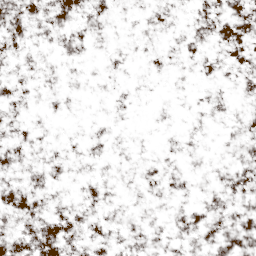
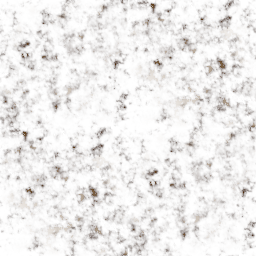
Improve player movement when going in negative z direction

diff --git a/gameObject.js b/gameObject.js
@@ -93,21 +93,18 @@ export class GameObject {
 const shapes = {
   square: new defs.Square(),
   trapezoidalPrism:
-    new (defs.Capped_Cylinder.prototype.make_flat_shaded_version())(10, 10, [
-      [0, 2],
-      [0, 2],
-    ]),
+    new defs.Capped_Cylinder(10, 10, Mat4.scale(3, 1, 1)),
   sphere: new defs.Subdivision_Sphere(8),
   triangle: new defs.Cone_Tip(10, 10),
   torus: new defs.Torus(16, 16),
   cube: new defs.Cube(),
   cone: new defs.Closed_Cone(10, 10),
-  cylinder: new defs.Rounded_Capped_Cylinder(20, 20)
+  cylinder: new defs.Rounded_Capped_Cylinder(10, 10)
 };
 
 for (let i = 0; i < shapes.square.arrays.texture_coord.length; i++) {
-  shapes.square.arrays.texture_coord[i][0] *= 15;
-  shapes.square.arrays.texture_coord[i][1] *= 15;
+  shapes.square.arrays.texture_coord[i][0] *= 50;
+  shapes.square.arrays.texture_coord[i][1] *= 50;
 }
 
 for (let i = 0; i < shapes.cone.arrays.texture_coord.length; i++) {
@@ -115,6 +112,10 @@ for (let i = 0; i < shapes.cone.arrays.texture_coord.length; i++) {
   shapes.cone.arrays.texture_coord[i][1] /= 10;
 }
 
+// for (let i = 0; i < shapes.trapezoidalPrism.arrays.texture_coord.length; i++) {
+//   shapes.trapezoidalPrism.arrays.texture_coord[i][0] /= 8;
+//   shapes.trapezoidalPrism.arrays.texture_coord[i][1] /= 8;
+// }
 
 const phong_material = new Material(new Shadow_Textured_Phong_Shader(1));
 const rockTexture = new Material(new Shadow_Textured_Phong_Shader(1), {
@@ -122,8 +123,8 @@ const rockTexture = new Material(new Shadow_Textured_Phong_Shader(1), {
   ambient: 0.6, // <-- changed ambient to 1
   diffusivity: 0.3, // <-- changed ambient to 1
   specularity: 0.2, // <-- changed ambient to 1
-  // color_texture: new Texture("assets/rock.png"),
-  color: hex_color("#555555"),
+  color_texture: new Texture("assets/rock2.png"),
+  // color: hex_color("#555555"),
   smoothness: 64,
   light_depth_texture: null,
 });
@@ -131,8 +132,8 @@ const snowTexture = new Material(new Shadow_Textured_Phong_Shader(1), {
   ambient: 0.6, // <-- changed ambient to 1
   diffusivity: 0.3, // <-- changed ambient to 1
   specularity: 0.2,
-  // color_texture: new Texture("assets/snow3.png"),
-  color: hex_color("#FFFFFF"),
+  color_texture: new Texture("assets/snow3.png"),
+  // color: hex_color("#FFFFFF"),
   smoothness: 64,
   light_depth_texture: null,
 });
@@ -148,7 +149,7 @@ const leavesTexture = new Material(new Shadow_Textured_Phong_Shader(1), {
   ambient: 0.6,
   diffusivity: 0.4,
   specularity: 0.2,
-  color_texture: new Texture("assets/leaves-with-snow.png"),
+  color_texture: new Texture("assets/snow2.png"),
   // color: hex_color("#00FF00"),
   smoothness: 64,
   light_depth_texture: null
@@ -375,13 +376,13 @@ export class Ground extends GameObject {
   constructor(baseTransform) {
     super(baseTransform);
 
-    for (let i = 0; i < 200; i++) {
+    for (let i = 0; i < 60; i++) {
       const x = Math.random() * 2000 - 1000;
       const y = Math.random() * 2000;
       const z = -5;
-      this.children.push(new Tree(Mat4.translation(x, y, z).times(Mat4.scale(1, 1, 1))));
+      this.children.push(new Tree(Mat4.translation(x, y, z).times(Mat4.scale(2, 3, 2))));
     }
-    for (let i = 0; i < 100; i++) {
+    for (let i = 0; i < 40; i++) {
       const x = Math.random() * 2000 - 1000;
       const y = Math.random() * 2000;
       const z = -5;

diff --git a/project.js b/project.js
@@ -31,14 +31,15 @@ const MAX_VERTICAL_ANGLE = -0.2; // Player will always be angled somewhat downwa
 // const INITIAL_SPEED = 200;
 // const MAX_SPEED = 600;
 // const MIN_SPEED = 100;
+// const LATERAL_SPEED = 20;
 const INITIAL_HEIGHT = 80;
-const INITIAL_SPEED = 26;
-const MAX_SPEED = 50;
-const MIN_SPEED = 13;
+const INITIAL_SPEED = 45;
+const MAX_SPEED = 90;
+const MIN_SPEED = 40;
+const LATERAL_SPEED = 10;
 const DIVE_ACCELERATION = 5;
 const FLATTEN_DECELERATION = 1;
 const CAM_DISTANCE = 20; // How far the camera is from the player
-const LATERAL_SPEED = 20;
 
 export class Game extends Scene {
   constructor() {
@@ -362,9 +363,24 @@ export class Game extends Scene {
       this.playerPosition.add_by(lateralVec);     
     }
 
-    let rotAngle = vec3(0, 0, 1).cross(this.playerVelocity);
+    let rotAngle = vec3(0, 0, Math.sign(this.playerVelocity[2])).cross(this.playerVelocity);
+
+    // console.log(Math.asin(rotAngle.norm()));
+ 
+    const desired = Mat4.look_at(
+      // vec3(0, 20, 0),
+      vec3(0,0,0).minus(vec3(this.playerVelocity[0], 0, this.playerVelocity[2])),
+      vec3(0,0,0),
+      // vec3(0, 20, -20),
+      // vec3(0, 0, 20),
+      vec3(0, -1, 0)
+    );
     
-    let playerMatrix = Mat4.identity().times(Mat4.translation(...this.playerPosition)).times(Mat4.rotation(this.lateral_value/20, ...this.playerVelocity)).times(Mat4.rotation(Math.asin(rotAngle.norm()), ...rotAngle));
+    let playerMatrix = Mat4.identity()
+      .times(Mat4.translation(...this.playerPosition))
+      .times(Mat4.rotation(this.lateral_value/20, ...this.playerVelocity))
+      .times(desired)
+      ;
     this.player.setBaseTransform(playerMatrix);
 
     for (let object of this.objects) {
